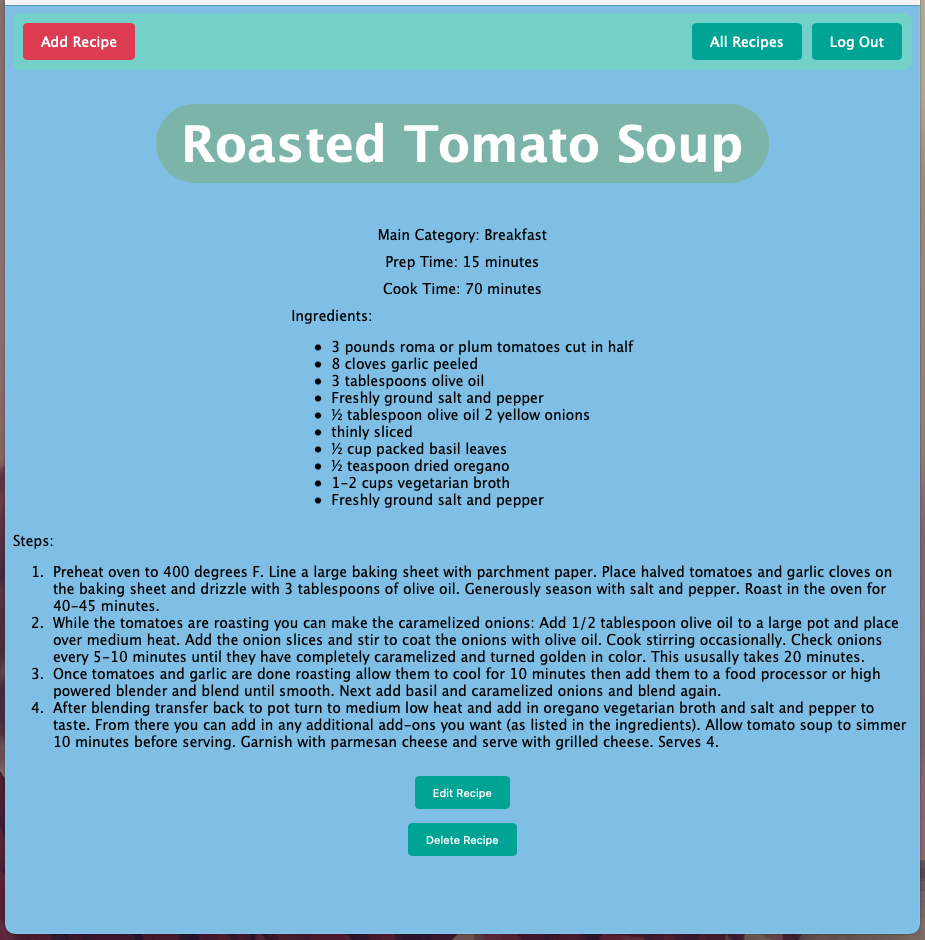
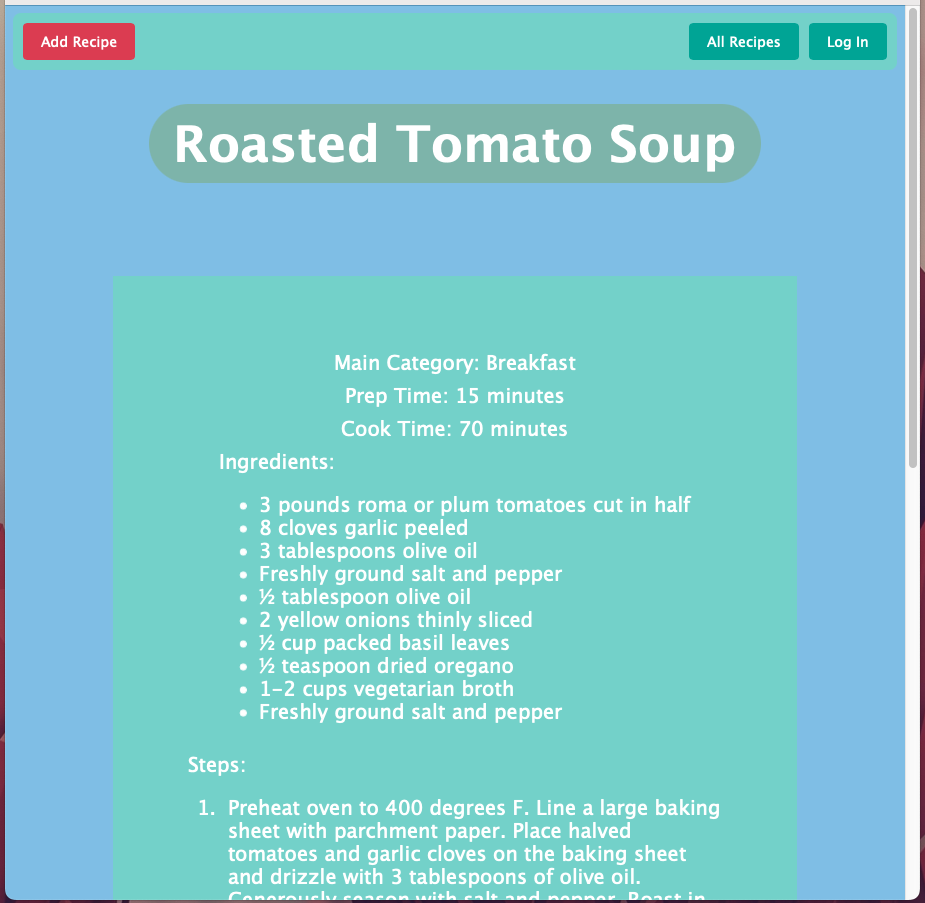
Adjust styling

diff --git a/public/stylesheets/style.css b/public/stylesheets/style.css
@@ -128,4 +128,5 @@ body > nav {
   background-color: var(--recipe-bg);
   padding: 75px;
   margin: 50px 100px;
+  font-size: 20px;
 }
